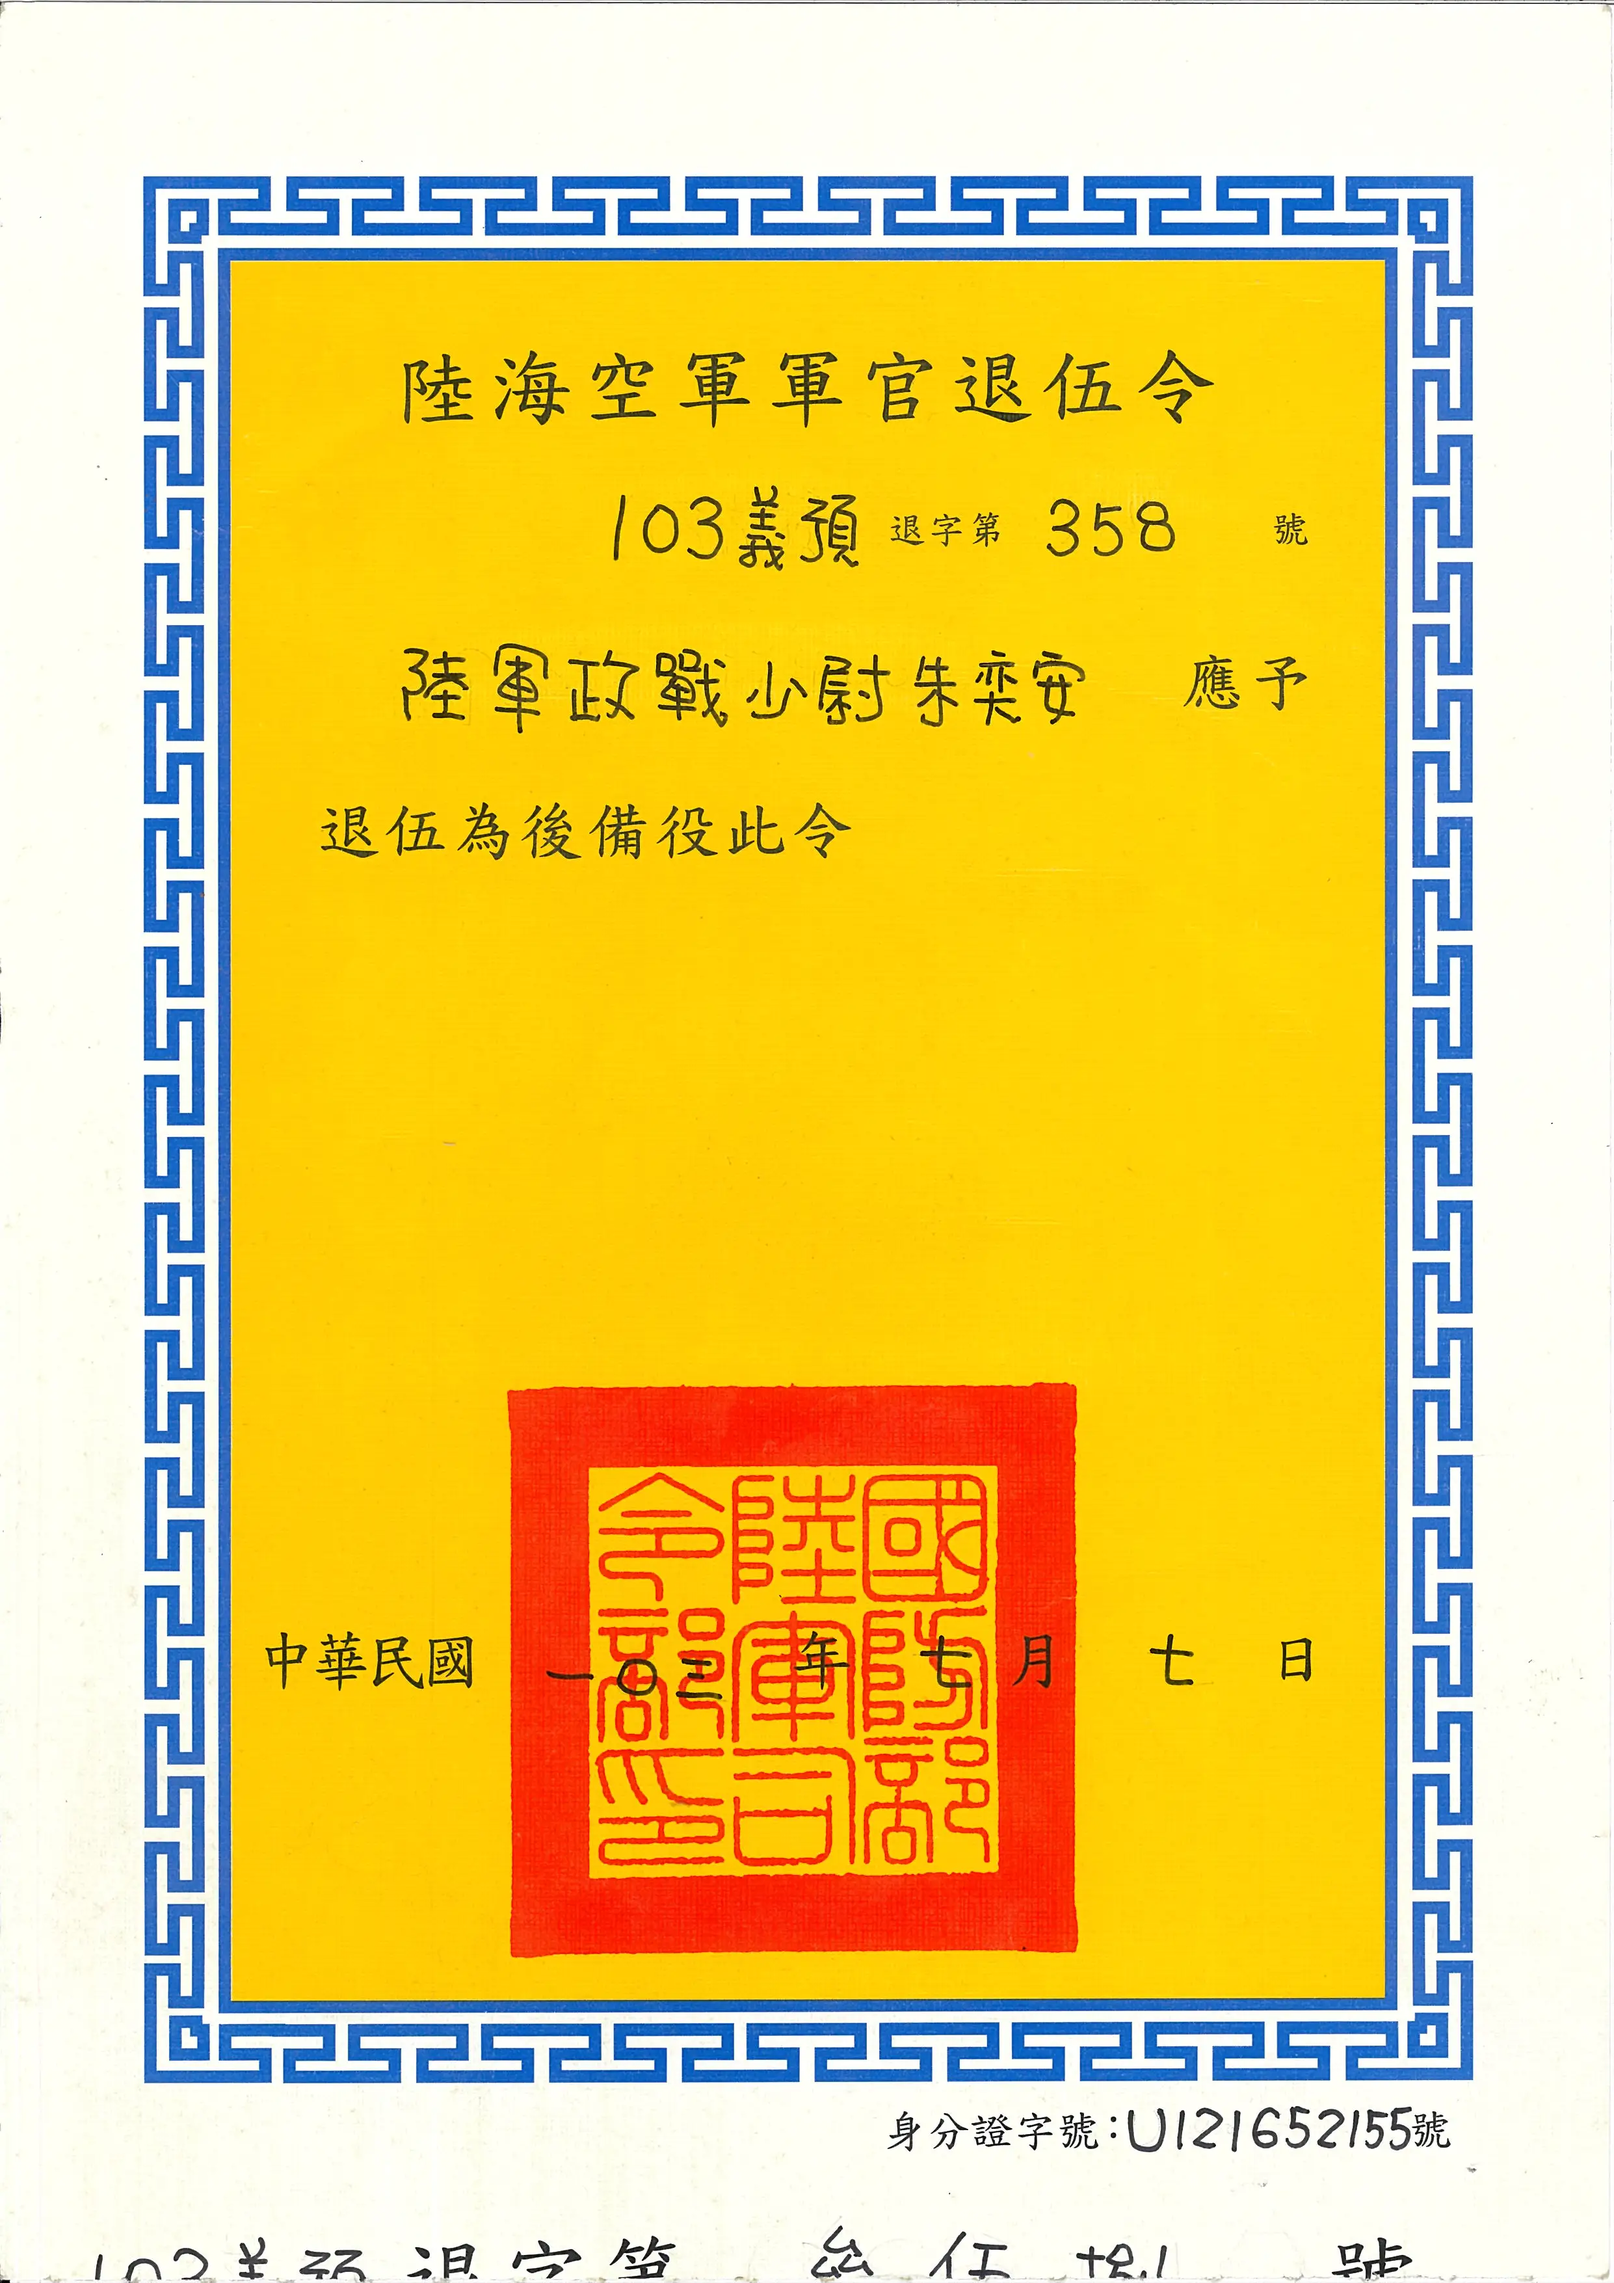
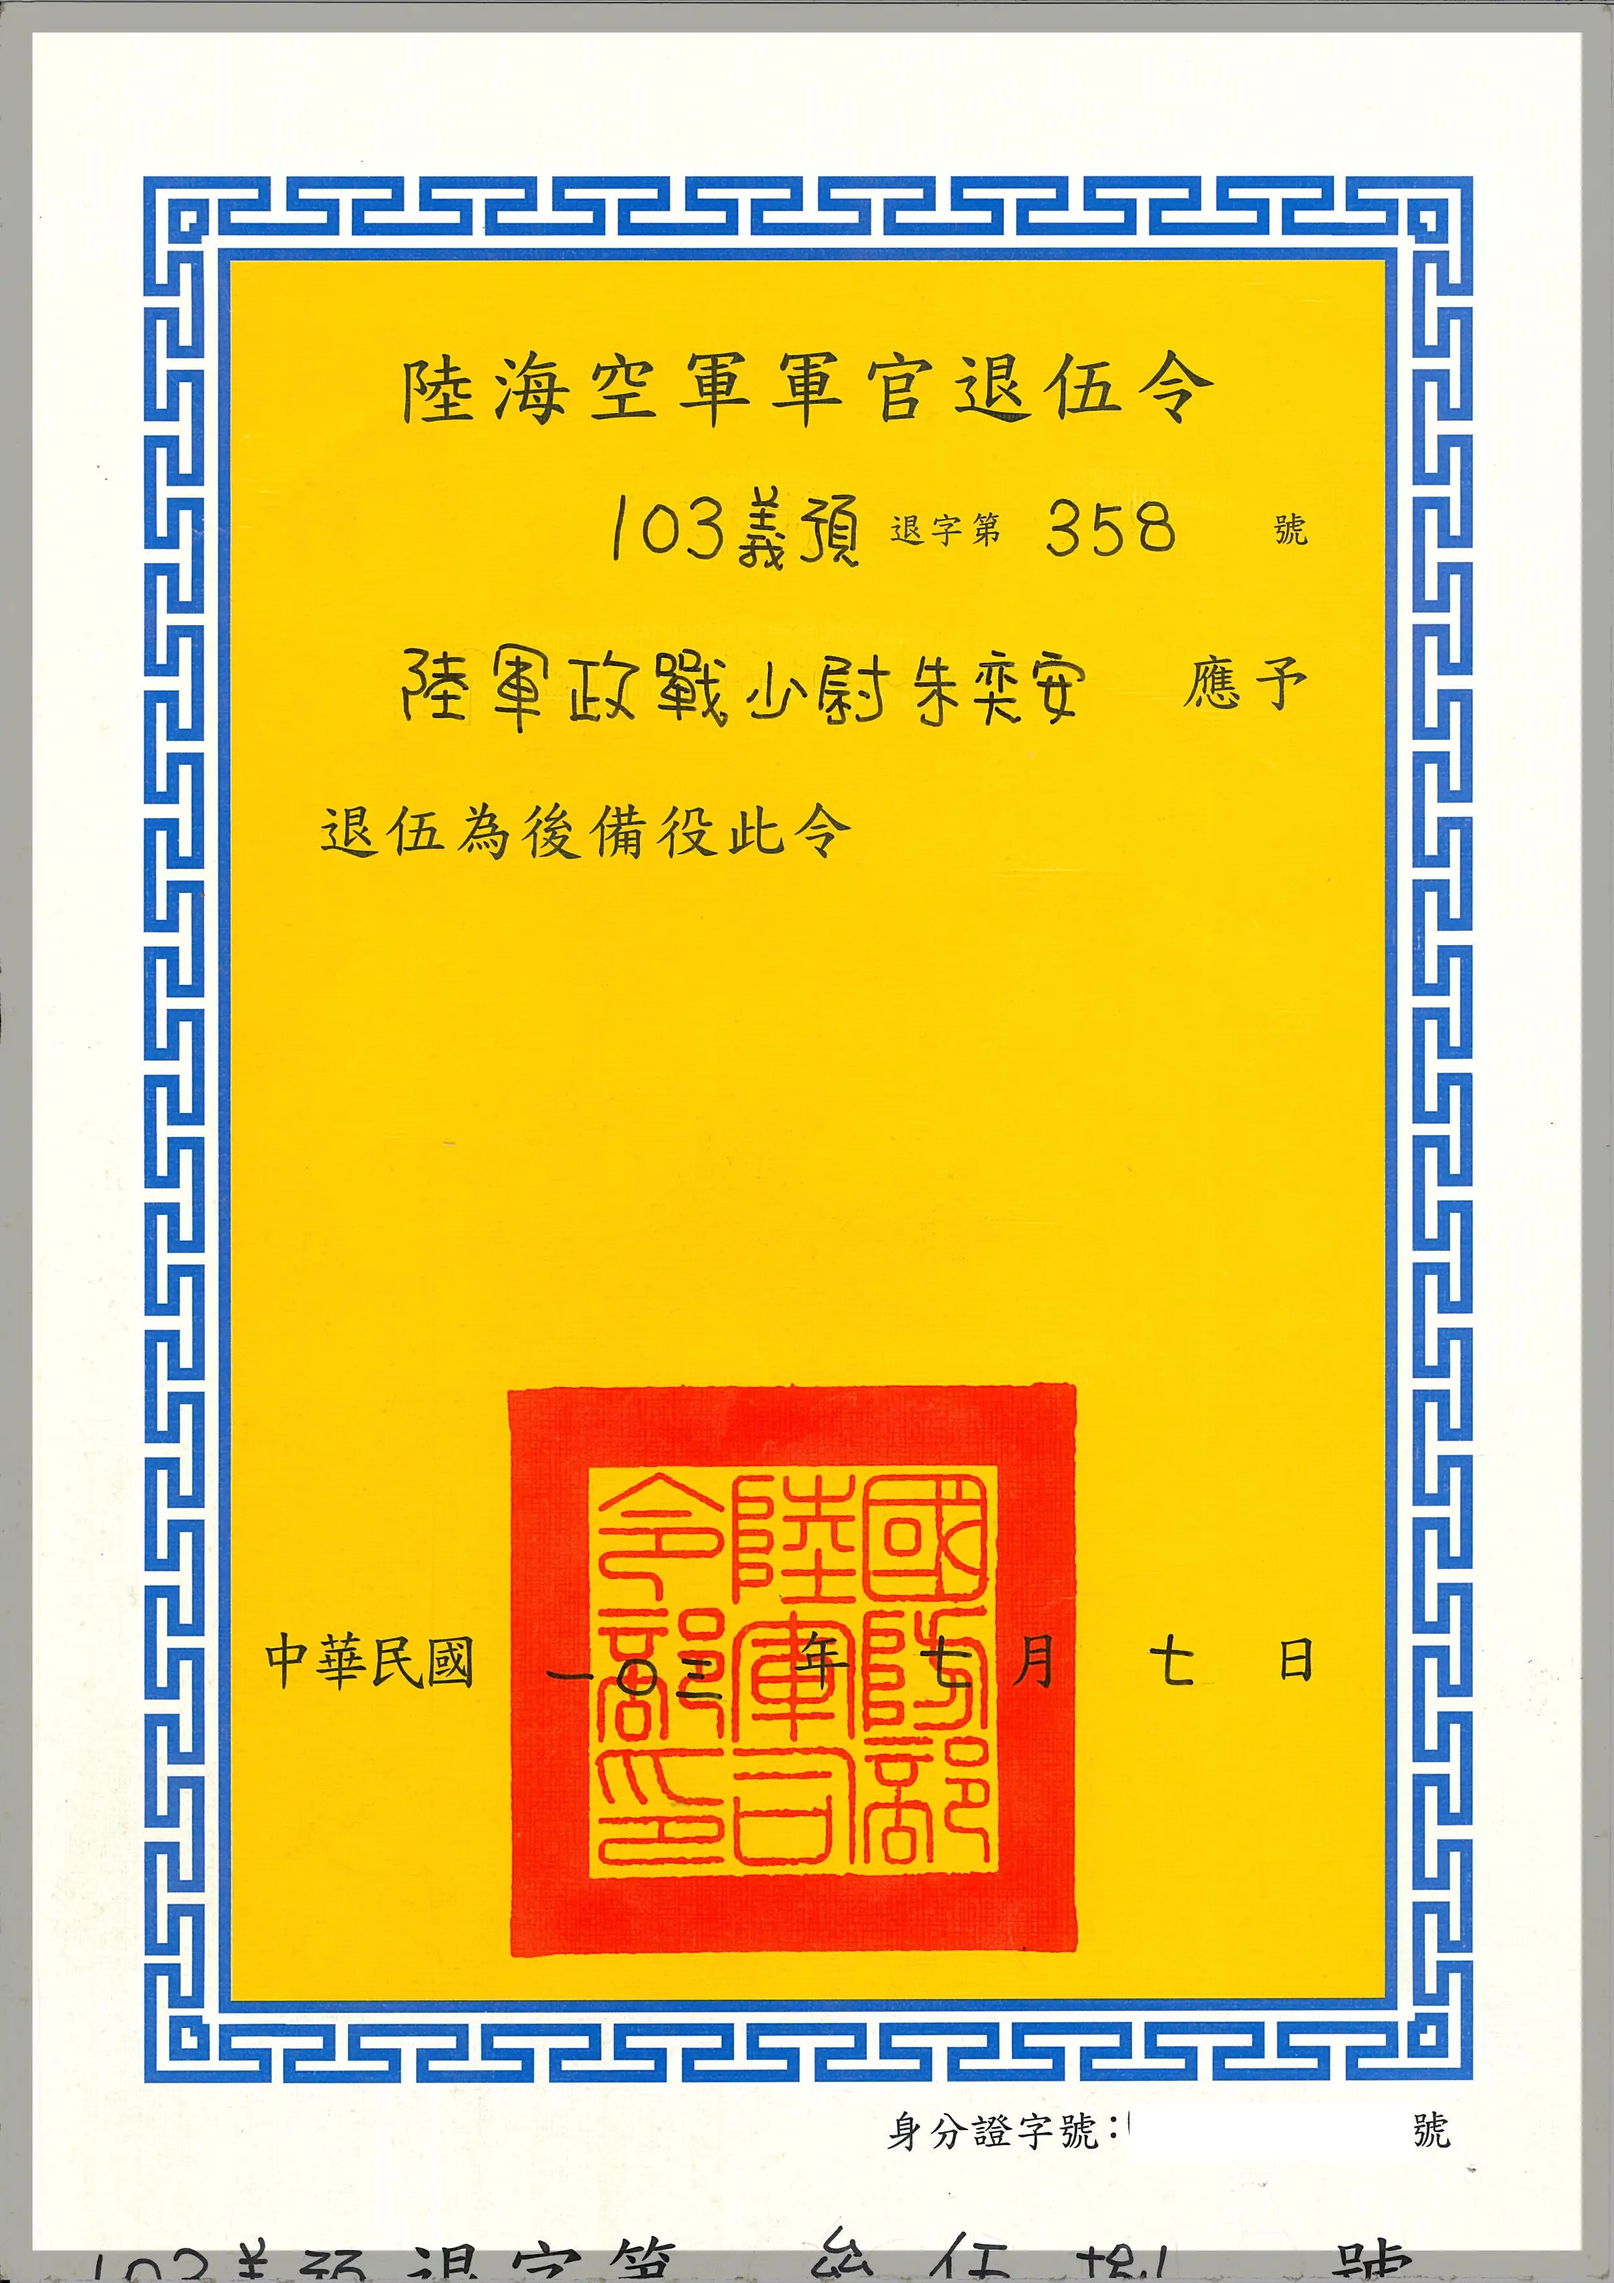
fix id

Changed region(s): [[0.0, 0.0, 1.0, 1.0]]

diff --git a/finance/single.md b/finance/single.md
@@ -8,7 +8,7 @@ outline: deep
 
 ## 投影片
 
-<iframe src="https://docs.google.com/presentation/d/e/2PACX-1vTvhDGQjUl2d1PQ4SHR1PHZv3AsWxtqMwAjLfqHceVXpYQWo0QUFr6k4j38gbxlzo3PgwueSzaAFoXI/embed?start=false&loop=false&delayms=3000" frameborder="0" width="100%" height="420" allowfullscreen="true" mozallowfullscreen="true" webkitallow｀fullscreen="true"></iframe>
+<iframe src="https://docs.google.com/presentation/d/e/2PACX-1vTvhDGQjUl2d1PQ4SHR1PHZv3AsWxtqMwAjLfqHceVXpYQWo0QUFr6k4j38gbxlzo3PgwueSzaAFoXI/embed?start=false&loop=false&delayms=3000" frameborder="0" width="100%" height="420" allowfullscreen="true" mozallowfullscreen="true" webkitallow fullscreen="true"></iframe>
 
 ## 講座評價
 
